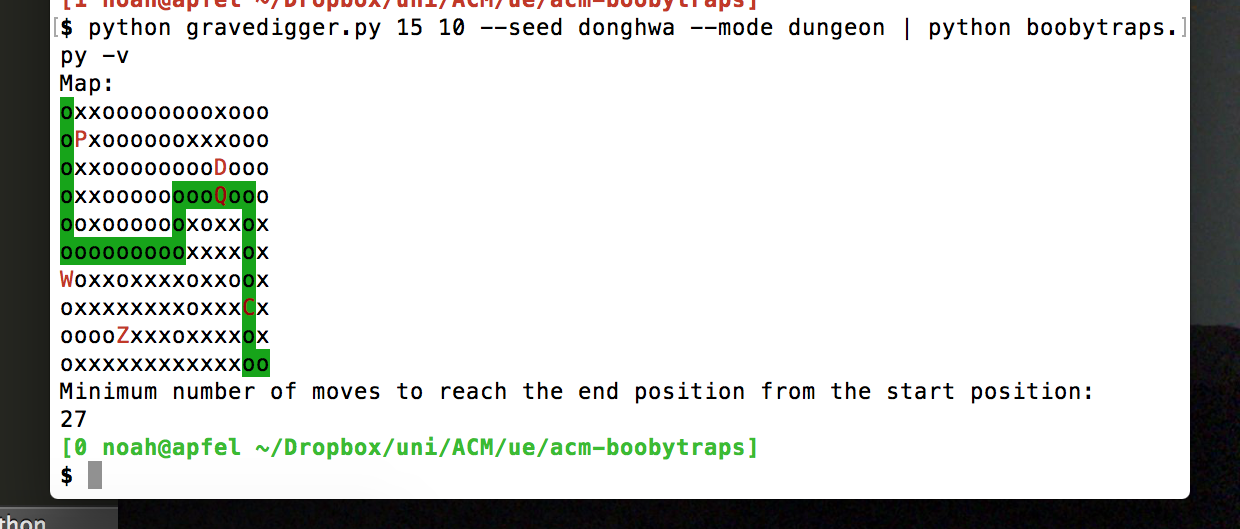
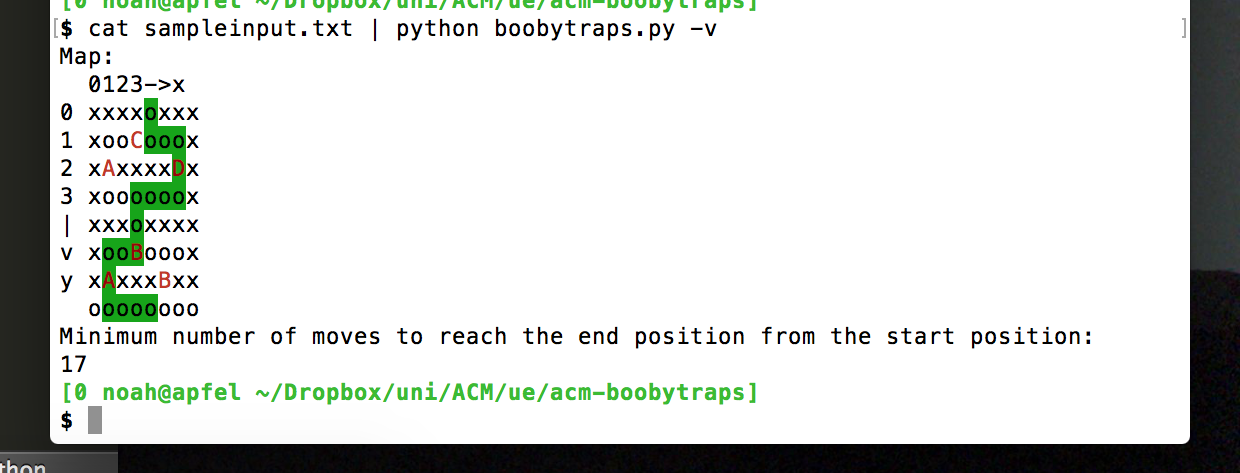
Add coordinate axes to pretty-printing function

Changed region(s): [[0.0, 0.0, 0.95, 1.0], [0.95, 0.5624, 1.0, 0.6216]]

diff --git a/boobytraps.py b/boobytraps.py
@@ -44,17 +44,29 @@ class Map:
         return 'map: ' + str(self.map) + ', trapDominationOrder: ' + str(self.trapDominationOrder)
 
     def prettyprint(self, path=[]):
+        xLabel = "  0123->x"
+        yLabel = "0123|vy"
+        print xLabel
+
         for y, row in enumerate(self.map):
+            # print y-axis label
+            if y < len(yLabel):
+                sys.stdout.write(yLabel[y] + " ")
+            else:
+                sys.stdout.write("  ")
+
             for x, field in enumerate(row):
                 prefix = ""
                 suffix = "\033[0m"
 
                 # highlight traps
                 if field in self.trapDominationOrder:
-                    prefix = prefix + '\033[31m'
-                #TODO hightlight path
+                    prefix = prefix + "\033[31m"
+
+                # hightlight path
                 if Coords(x, y) in path:
-                    prefix = prefix + '\033[42m'
+                    prefix = prefix + "\033[42m"
+
                 sys.stdout.write(prefix + field + suffix)
             print
 

diff --git a/README.md b/README.md
@@ -11,7 +11,7 @@ Books have one, so why shouldn't software?
 * `gravedigger.py` is a simple map generator I wrote for testing the performance of `boobytraps.py` on large maps.
 * `sampleinput.txt` contains the sample input with which to test the solution.
 * `sampleoutput.txt` contains the sample output with which to test the solution.
-* `screenshot.png` shows the code in action.
+* `screenshot.png` shows my solution in action.
 * `tombraider.sh` is a short shell script for efficiently testing the solution.
 
 ## Example Usage
@@ -24,4 +24,9 @@ Test the shortest path finder on the sample input and output given with the prob
 Randomly generate a 15x15 map and find the shortest path from start to end:
 ```
 python gravedigger.py 15 15 | python boobytraps.py
+```
+
+Randomly generate a 15x10 map (with a fixed seed and using the "dungeon" mode), find the shortest path from start to end and highlight the path in the map:
+```
+python gravedigger.py 15 10 --seed donghwa --mode dungeon | python boobytraps.py -v
 ```

diff --git a/TODO.md b/TODO.md
@@ -6,7 +6,6 @@
 * maybe change coords class to cell class with coords and value, change map accordingly
 * maybe identify coords by integer, like width*y+x
 * getAt, setAt neccessary, especially in the map class itself?
-* maybe add -v flag with colorized map (using a highlight(map, [coords], color) function) with coord axes, as well as path output after each step
 
 * use graph representation of map
 	* collapse paths: o -> o -> o => o -2> o
